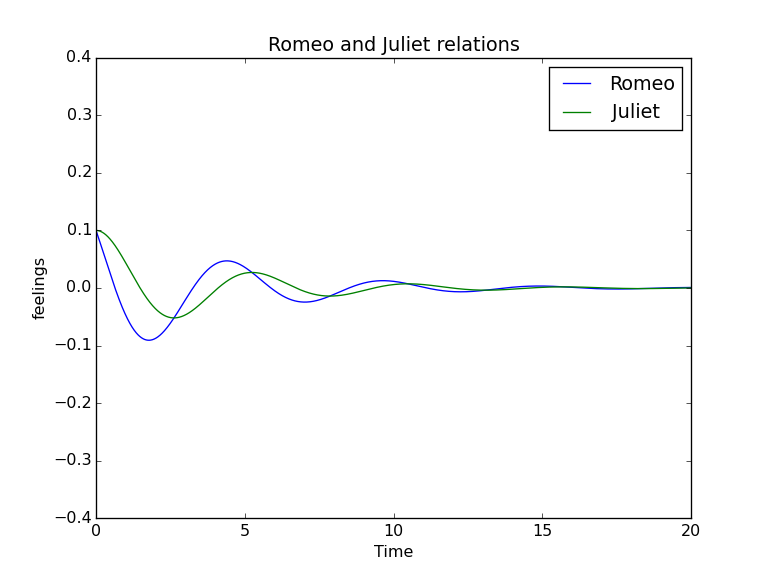
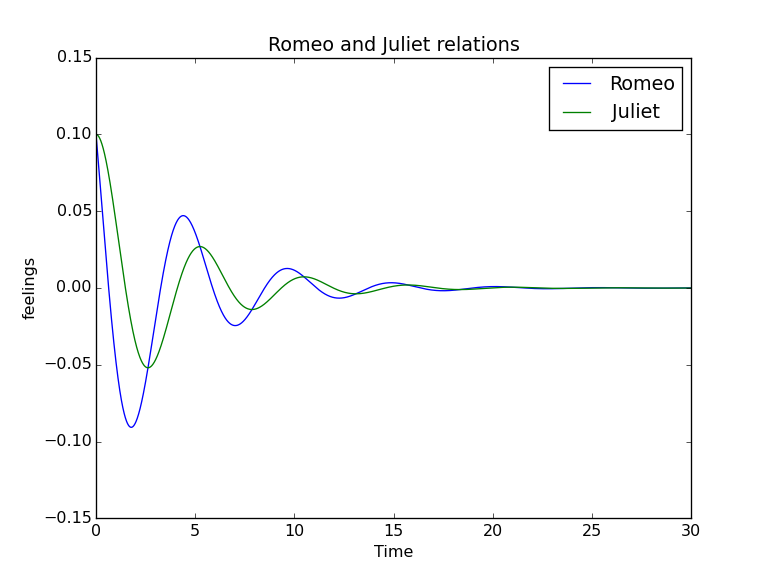
Beautification plots

diff --git a/main.py b/main.py
@@ -3,6 +3,7 @@ from scipy.integrate import odeint
 import pylab as p
 import mpl_toolkits.mplot3d.axes3d as p3
 
+
 def romeo_juliet(state, t):
     x = state[0]
     y = state[1]
@@ -14,14 +15,14 @@ def romeo_juliet(state, t):
     dy = c*x + d*y
     return [dx, dy]
 
-t = p.arange(0, 20, 0.01)
+t = p.arange(0, 30, 0.01)
 state0 = [0.1, 0.1]
 
 state = odeint(romeo_juliet, state0, t)
 
 p.figure()
 p.plot(t, state)
-p.ylim([-0.4, 0.4])
+p.ylim([-0.15, 0.15])
 p.xlabel('Time')
 p.ylabel('feelings')
 p.legend(('Romeo', 'Juliet'))
@@ -31,7 +32,7 @@ p.show()
 
 p.figure()
 p.plot(state[:, 0], state[:, 1])
-p.ylim([-0.4, 0.4])
+p.ylim([-0.15, 0.15])
 p.xlabel('Romeo')
 p.ylabel('Juliet')
 p.legend(('System state', ''))
